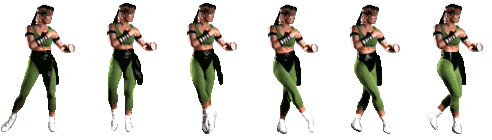
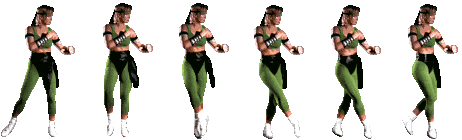
Reajustados todas las animaciones de Sub-Zero y Sonia. Reajustados las velocidades de personajes lo mas cercano al juego original. Reajustados las velocidades de capas lo mas cercano al juego original.

diff --git a/src/modelo/Personaje.cpp b/src/modelo/Personaje.cpp
@@ -9,7 +9,7 @@
 
 #define VELOCIDAD_DESP_HORIZONTAL_SALTANDO 320.0f
 #define VELOCIDAD_DESP_HORIZONTAL_CAMINANDO 215.0f
-#define VELOCIDAD_DESP_VERTICAL 1000.0f
+#define VELOCIDAD_DESP_VERTICAL 1120.0f
 #define VELOCIDAD_NULA 0.0f
 #define VECTOR_VELOCIDAD_NULA Vector2f(0, 0)
 #define VECTOR_GRAVEDAD Vector2f(0, -2600.f)
